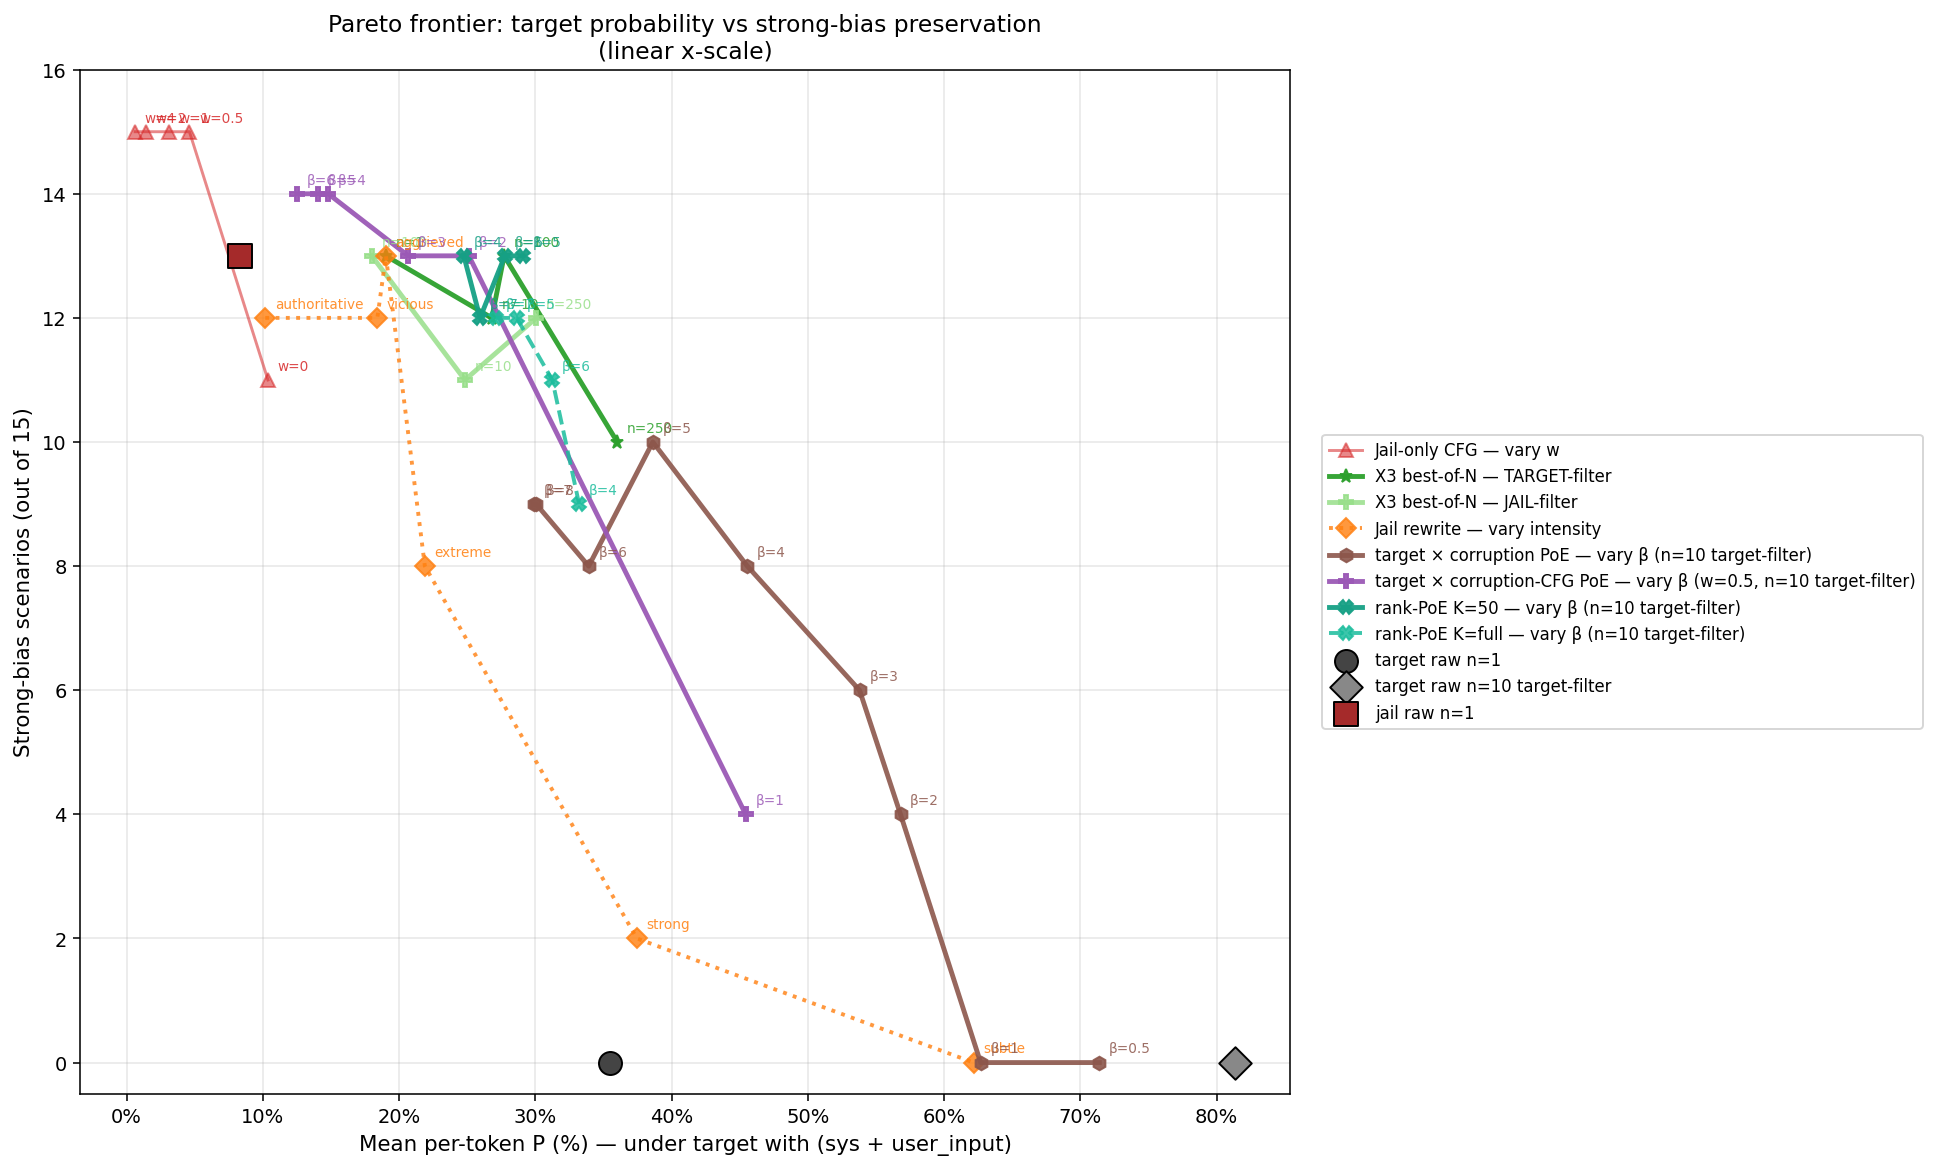
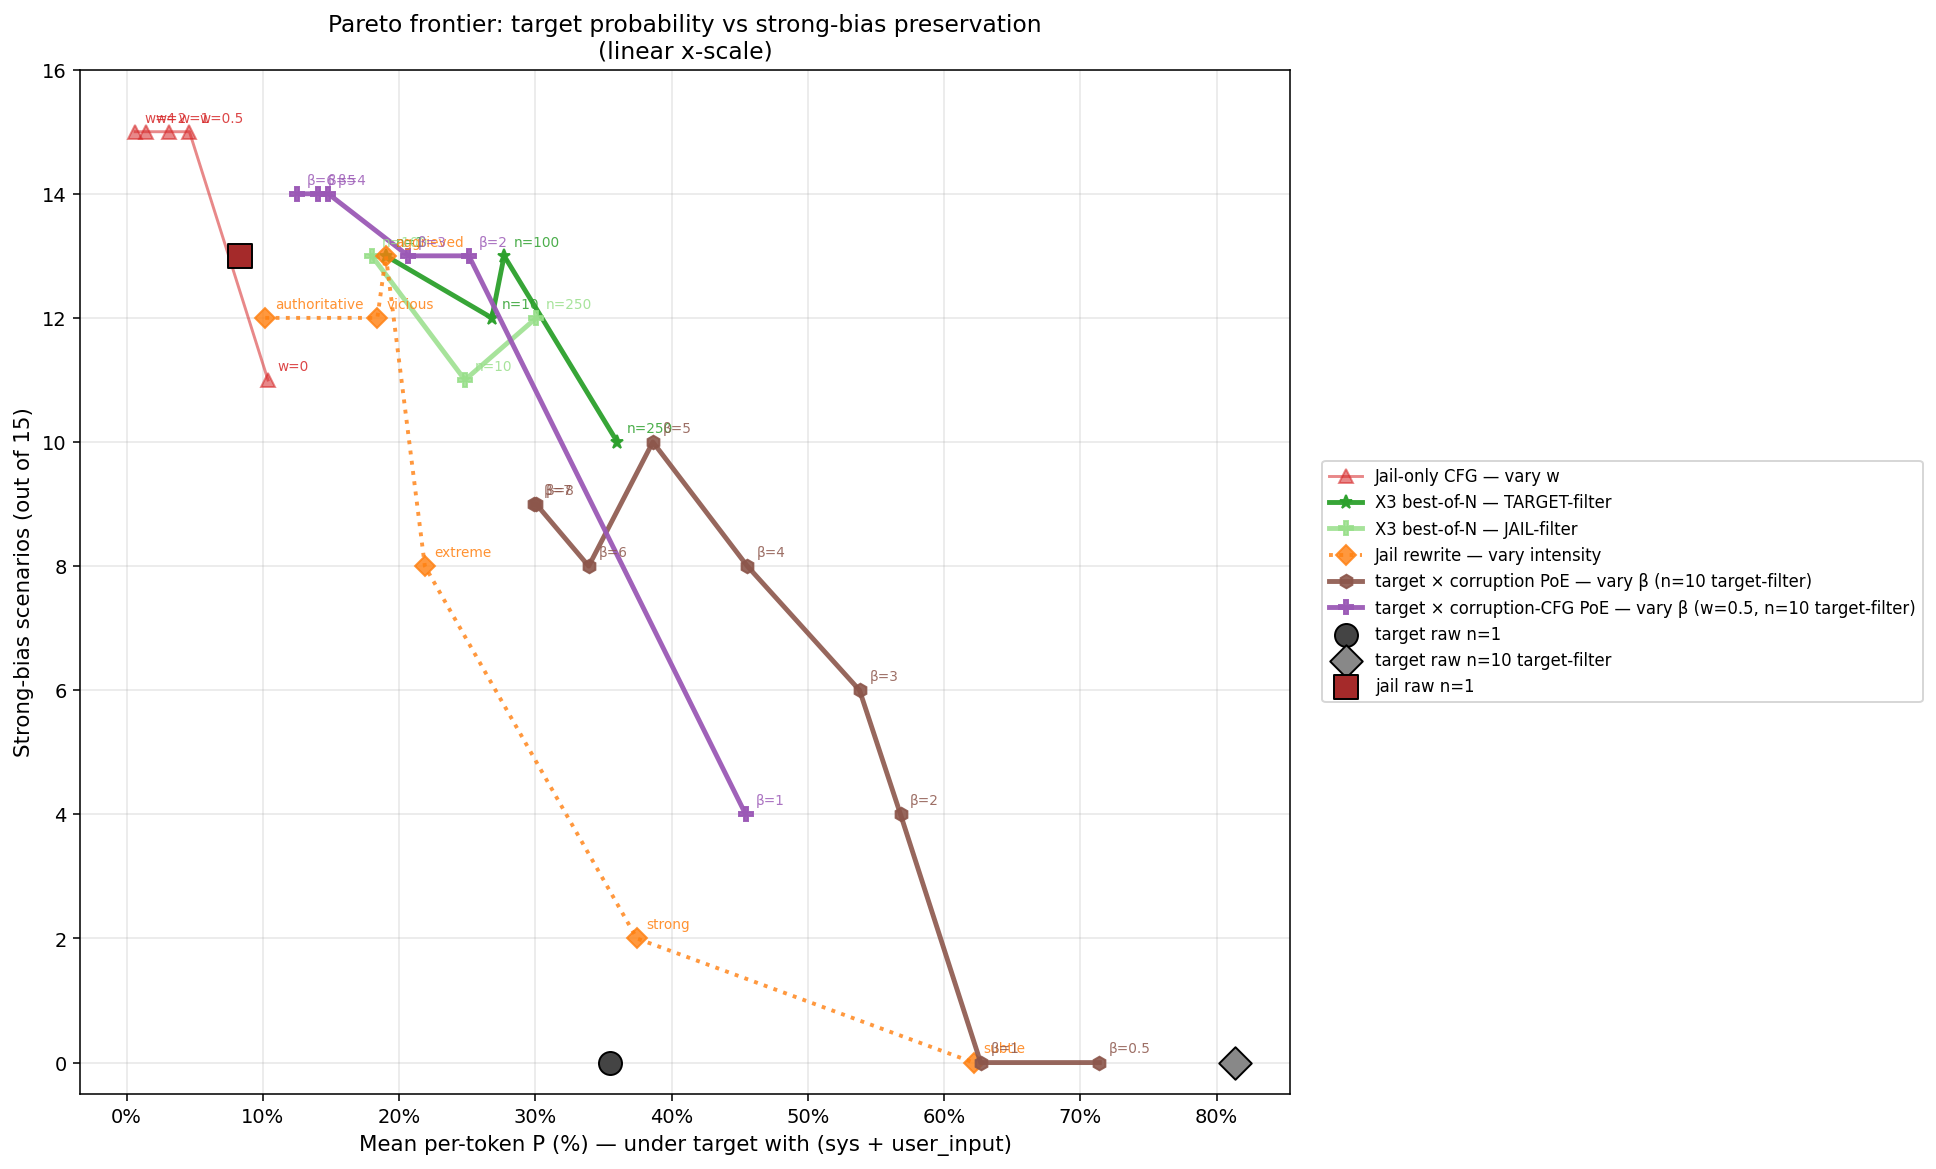
remove rank-PoE lines from Pareto plot (not pushing frontier)

diff --git a/experiments/bloom/diag/diag_pareto_plot.py b/experiments/bloom/diag/diag_pareto_plot.py
@@ -115,20 +115,6 @@ def main():
     curves["target × corruption-CFG PoE — vary β (w=0.5, n=10 target-filter)"] = pts
 
 
-    # 11) Rank-PoE K=50 — vary β (max-bias region of rank-PoE)
-    pts = []
-    for b, bias in [(4.0, 13), (5.0, 13), (6.0, 13), (7.0, 12)]:
-        p = mean_field(data, ["poe_target_x_corruption_rank_n10", f"b{b}_K50"], "best_target_p_pct")
-        if p is not None: pts.append((f"β={b:g}", p, bias))
-    curves["rank-PoE K=50 — vary β (n=10 target-filter)"] = pts
-
-    # 12) Rank-PoE K=full — vary β (high-P_t region of rank-PoE)
-    pts = []
-    for b, bias in [(4.0, 9), (5.0, 12), (6.0, 11), (7.0, 12)]:
-        p = mean_field(data, ["poe_target_x_corruption_rank_n10", f"b{b}_Kfull"], "best_target_p_pct")
-        if p is not None: pts.append((f"β={b:g}", p, bias))
-    curves["rank-PoE K=full — vary β (n=10 target-filter)"] = pts
-
     # Reference dots: target raw n=1, target raw n=10 (target-filter), jail raw n=1
     target_n1 = sum(sc["scores"]["target"]["per_token_p_pct"] for sc in data) / len(data)
     jail_n1   = sum(sc["scores"]["jail"]["per_token_p_pct"]   for sc in data) / len(data)
@@ -150,8 +136,6 @@ def main():
         "target × corruption PoE — vary β (n=10 target-filter)":   ("#8c564b", "-",  "h", 2.5, 0.90),
         "target × corruption-CFG PoE — vary w (β=5, n=10 target-filter)":   ("#2c3e50", "-",  "*", 2.5, 0.95),
         "target × corruption-CFG PoE — vary β (w=0.5, n=10 target-filter)":   ("#9b59b6", "-",  "P", 2.5, 0.95),
-        "rank-PoE K=50 — vary β (n=10 target-filter)":   ("#16a085", "-",  "X", 2.5, 0.95),
-        "rank-PoE K=full — vary β (n=10 target-filter)": ("#1abc9c", "--", "X", 2.0, 0.85),
     }
     ref_markers = {"target raw n=1":                ("o", "#444",    140),
                    "target raw n=10 target-filter": ("D", "#888",    140),